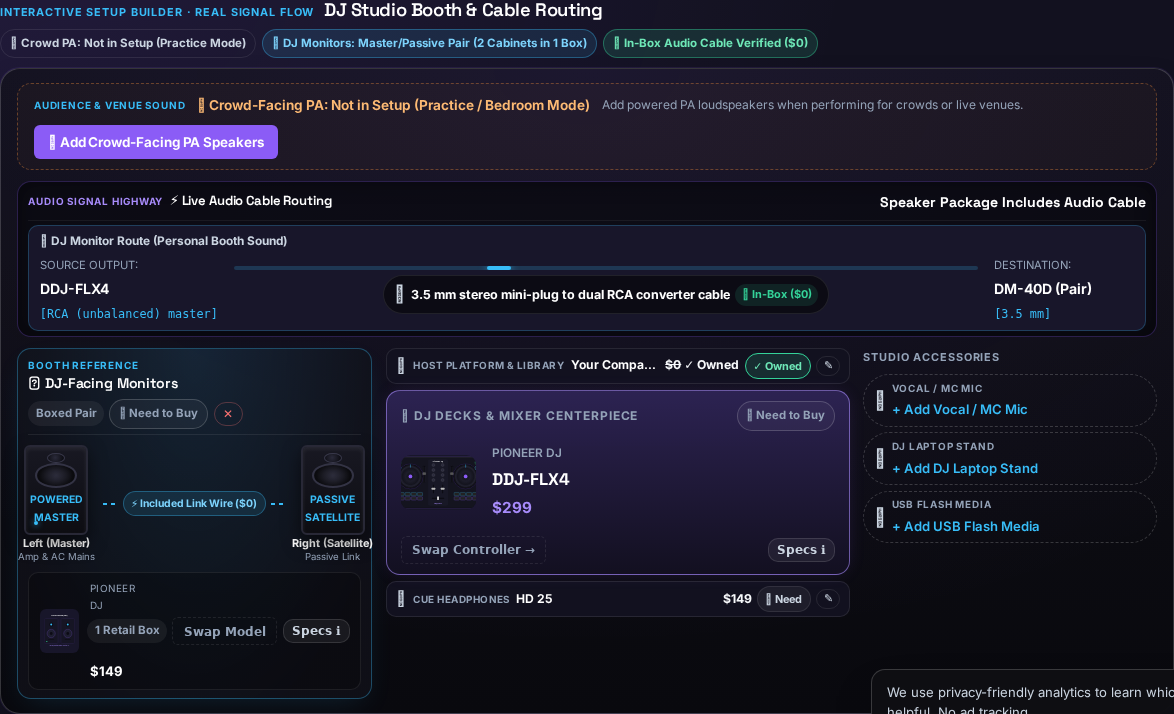
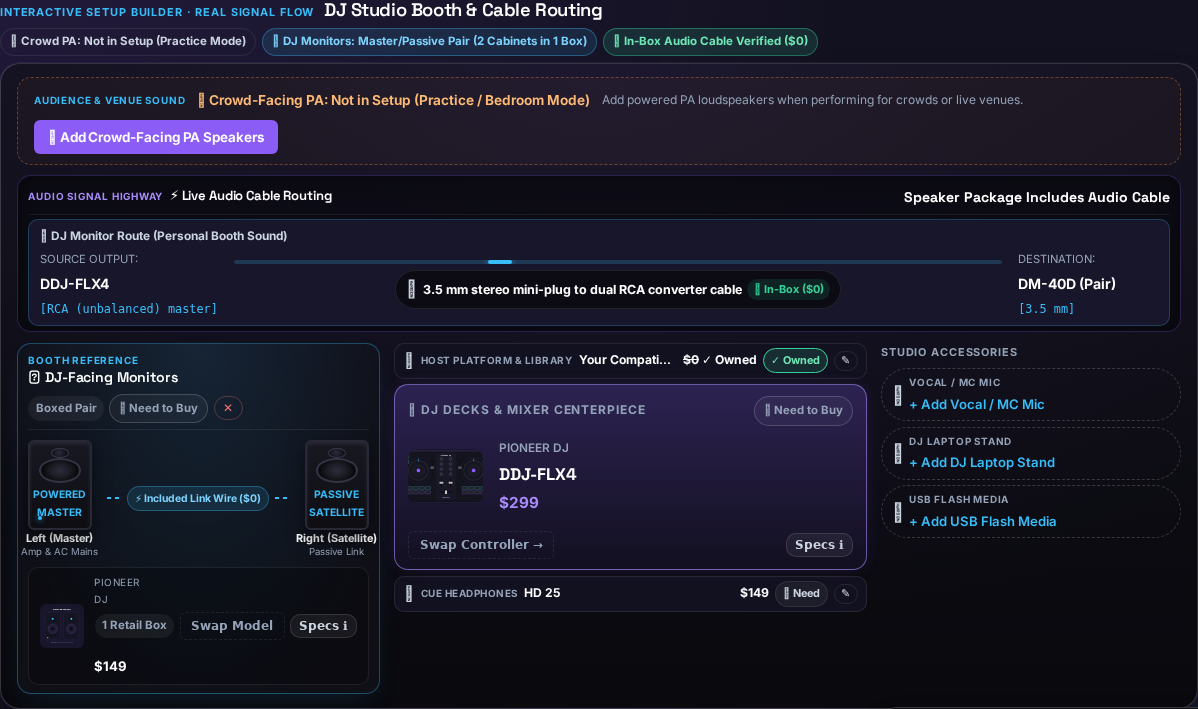
test(rig-architect): add owner design recovery test suite and elevate booth above 1440x900 fold
- Compress dashboard shell and booth stage margins so workstation begins at Y=715px
- Add tests/test_owner_design_recovery.cjs covering all 4 owner acceptance criteria
- Capture desktop (1440x900) and mobile (390px) visual regression evidence

diff --git a/assets/style.css b/assets/style.css
@@ -2405,8 +2405,8 @@ h3.mini {
    My DJ Rig Architect / PCPartPicker Experience
    ========================================================================== */
 .rig-dashboard-shell {
-  margin: 1.5rem 0 2rem;
-  padding: clamp(1.2rem, 3vw, 2rem);
+  margin: 0.5rem 0 1.25rem;
+  padding: 0.65rem clamp(0.75rem, 1.8vw, 1.25rem);
   background: radial-gradient(120% 140% at 0% 0%, rgba(139, 92, 246, .14), transparent 60%),
               radial-gradient(100% 100% at 100% 100%, rgba(56, 189, 248, .08), transparent 50%),
               var(--panel);
@@ -2595,11 +2595,11 @@ h3.mini {
 
 /* Visual DJ Booth Studio Section (FLAGSHIP CENTERPIECE) */
 .rig-booth-section {
-  margin: 0.5rem 0 1.25rem;
+  margin: 0.35rem 0 0.85rem;
 }
 .booth-stage-header {
   display: flex; flex-wrap: wrap; justify-content: space-between; align-items: center;
-  gap: 0.5rem 1rem; margin-bottom: 0.65rem;
+  gap: 0.4rem 0.85rem; margin-bottom: 0.4rem;
 }
 .booth-title-group { display: flex; align-items: baseline; gap: 0.6rem; }
 .booth-kicker {
